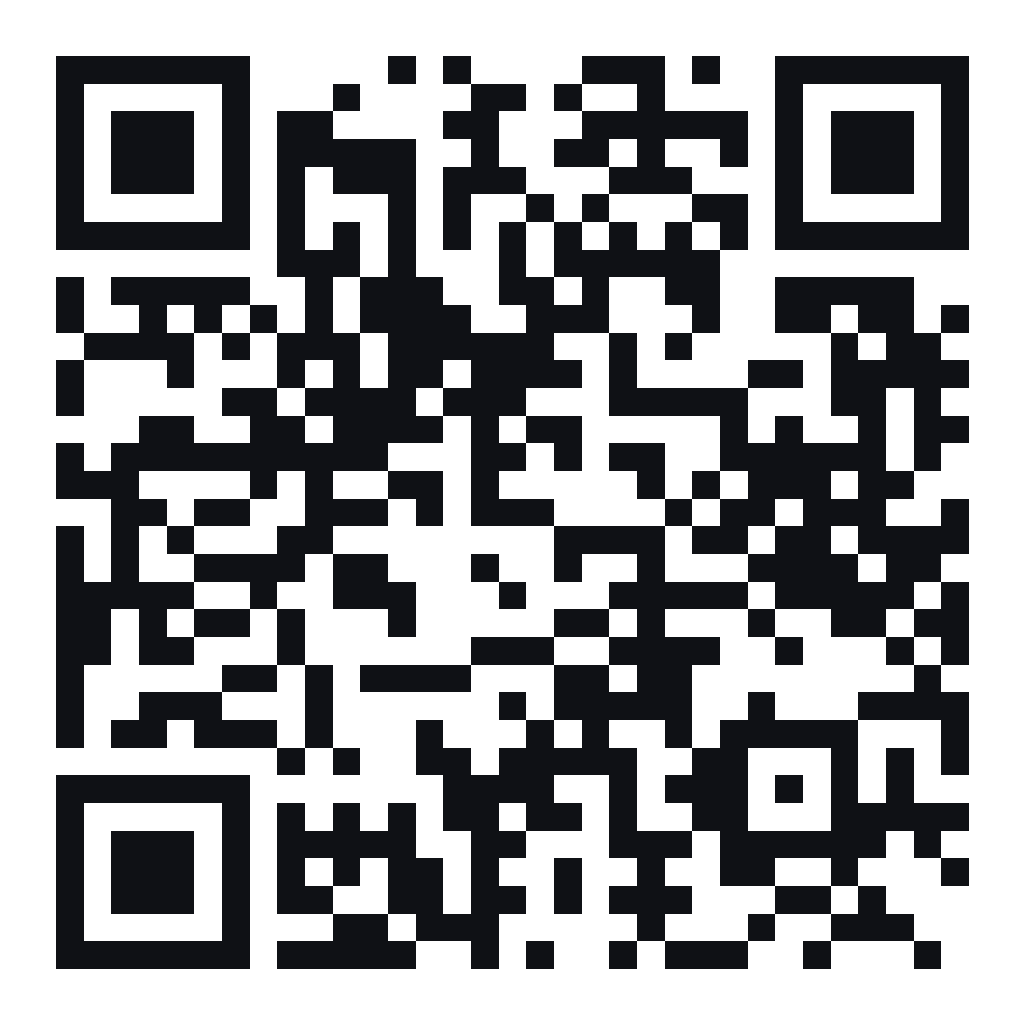
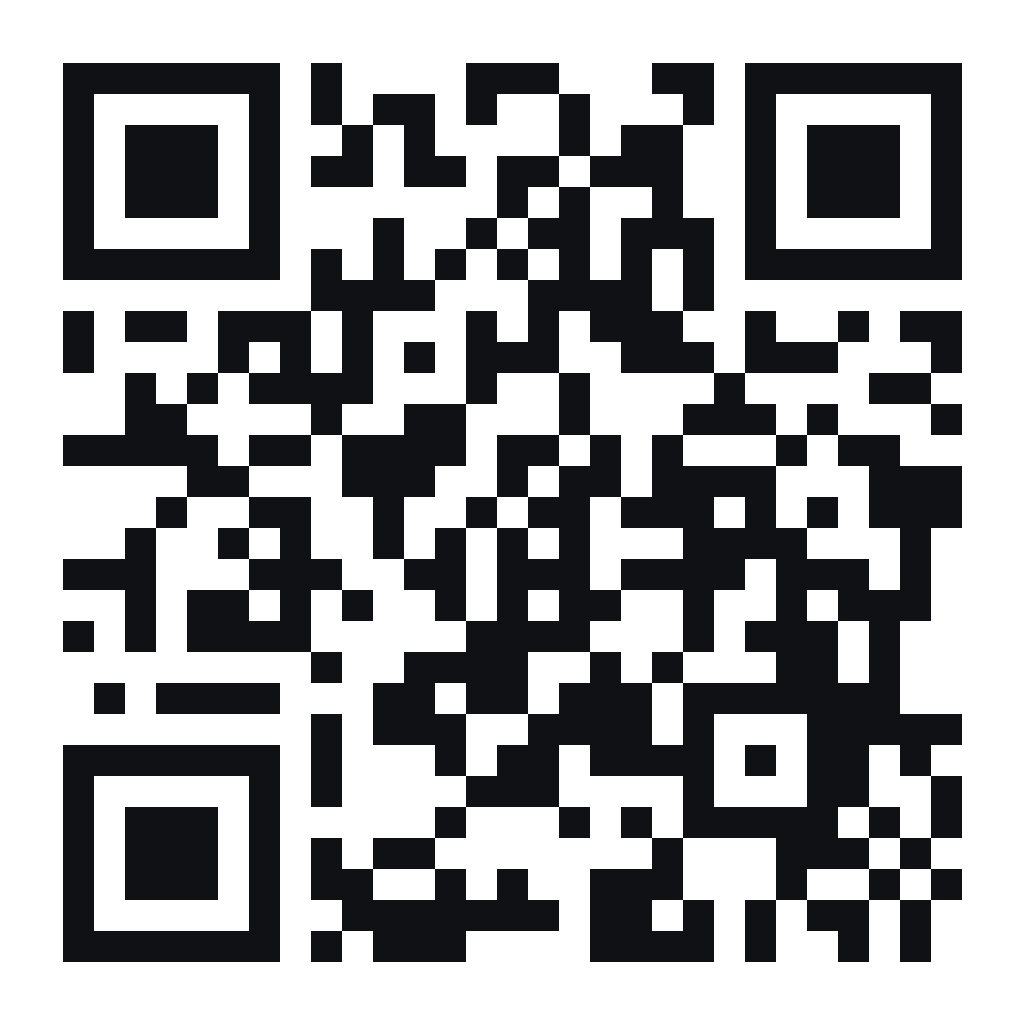
Share the short link everywhere, and regenerate the QR codes
The public address now lives once, as appUrl in package.json. vite hands it to
the client through define, the way __BUILD_TIME__ already works, and
make-qr.mjs reads the same field -- so a printed poster and the in-app share
sheet cannot drift apart.

shareUrl() previously returned window.location.origin, which meant the QR and
the copy-link button showed whatever host the app happened to be open on:
localhost in development, the long workers.dev address in production. A fixed
short link also means moving to a custom domain later needs no reprinting.

diff --git a/vite.config.ts b/vite.config.ts
@@ -2,10 +2,17 @@ import { defineConfig } from 'vite';
 import react from '@vitejs/plugin-react';
 import tailwindcss from '@tailwindcss/vite';
 import { VitePWA } from 'vite-plugin-pwa';
+import pkg from './package.json' with { type: 'json' };
 
 export default defineConfig({
-  // Lets Settings show which build is actually running on a phone.
-  define: { __BUILD_TIME__: JSON.stringify(new Date().toISOString()) },
+  define: {
+    // Lets Settings show which build is actually running on a phone.
+    __BUILD_TIME__: JSON.stringify(new Date().toISOString()),
+    // The share URL is baked in rather than read from window.location, so a
+    // QR or a copied link is the public address even when the app is being
+    // used from localhost or reached through some other hostname.
+    __APP_URL__: JSON.stringify(pkg.appUrl),
+  },
   plugins: [
     react(),
     tailwindcss(),

diff --git a/src/components/SharePanel.tsx b/src/components/SharePanel.tsx
@@ -9,10 +9,17 @@ import { Sheet } from './Sheet';
  * bundle for one fixed URL. It's precached, so this works with no signal.
  */
 
-/** Where the app actually lives, so a QR shown on localhost still points at prod. */
+/**
+ * The address to hand out, from package.json via vite's define.
+ *
+ * Deliberately not window.location.origin. That returned whatever host the app
+ * happened to be open on — localhost during development, and the long
+ * workers.dev address in production — so the QR and the copied link disagreed
+ * with the posters. A fixed short link also survives the app moving to a custom
+ * domain later without reprinting anything.
+ */
 export function shareUrl(): string {
-  if (typeof window === 'undefined') return '';
-  return window.location.origin;
+  return typeof __APP_URL__ === 'string' && __APP_URL__ ? __APP_URL__ : '';
 }
 
 const SHARE_TEXT =

diff --git a/src/vite-env.d.ts b/src/vite-env.d.ts
@@ -2,3 +2,4 @@
 /// <reference types="vite-plugin-pwa/client" />
 
 declare const __BUILD_TIME__: string;
+declare const __APP_URL__: string;
